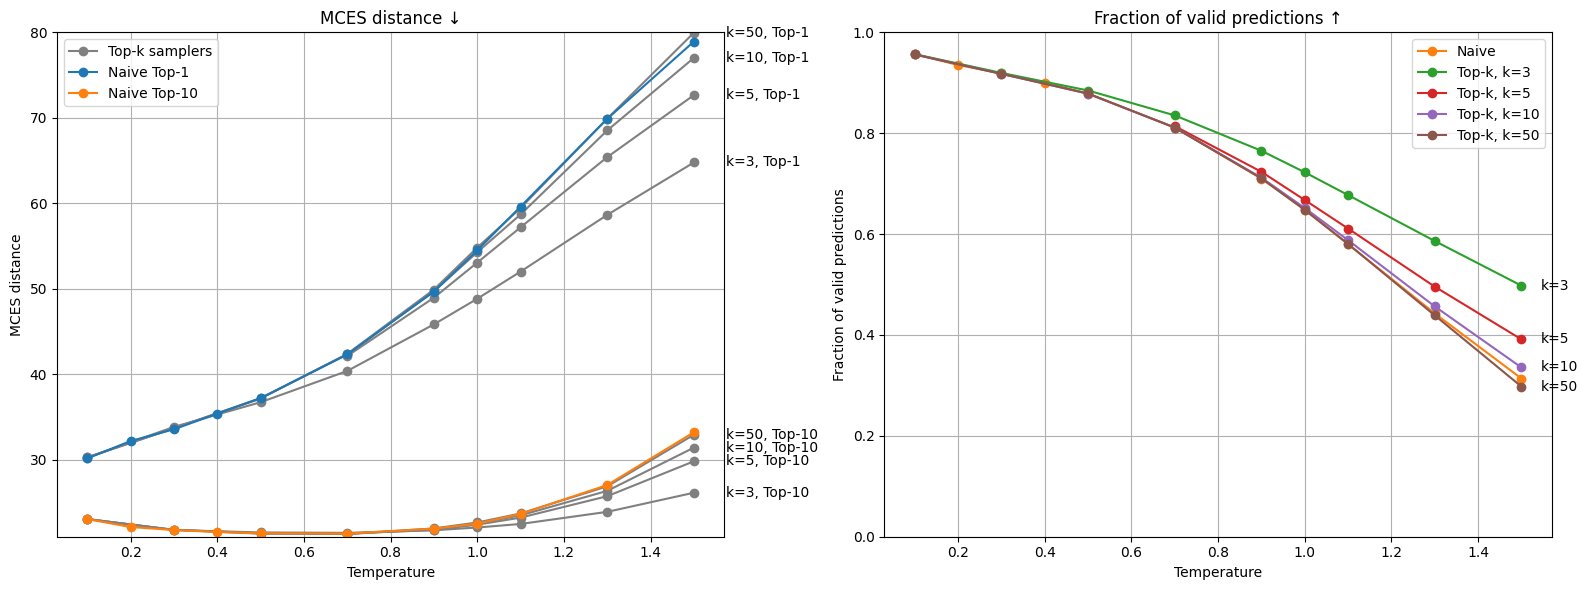
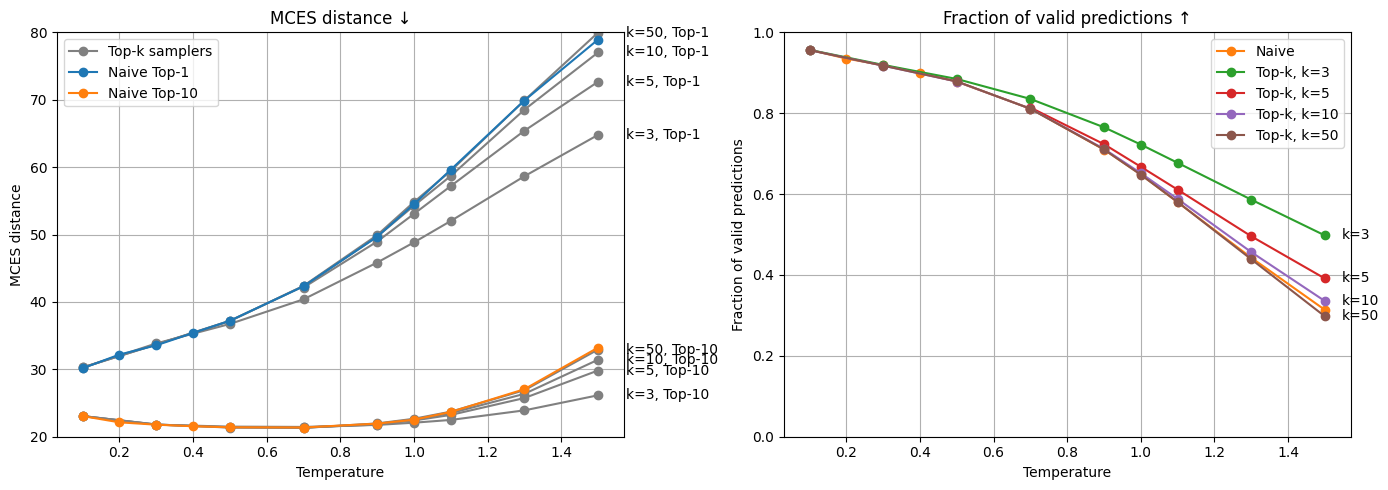
results

diff --git a/paper/chapters/results.tex b/paper/chapters/results.tex
@@ -72,16 +72,51 @@ From figure \ref{fig:naive_and_greedy}, it is clear that the naive sampler perfo
 Increasing the randomness (by increasing the temperature) for the top-1 naive sampler, only worsens the MCES distance.
 As expected, the top-1 naive sampler MCES distance converges to the greedy sampler's MCES distance as the temperature approaches zero, as extremely low temperatures force the model to only predict the most likely token.
 
-The top-10 naive sampler shows to have an optimal temperature around $0.7$, for this SMILES model.
+The top-10 naive sampler benefits greatly from its randomness, by performing better than the greedy sampler according to the MCES distance.
+It shows to have an optimal temperature around $0.7$, for this SMILES model.
 A higher temperature increases the randomness of the sampler too much causing the amount of valid predictions to drop.
 A lower temperature starts to force the predictions towards the greedy sampler.
 This shows that temperature can indeed influence the sampler's performance.
 
 \subsection{Stochastic Samplers}
 
-Variations naive sampler
+The randomness of the naive sampler can be tweaked using samplers such as top-k and top-p (nucleus sampling).
+Because the stochastic samplers only benefit from their randomness when evaluating in a top-10 setting, only these results will be shown on the plots.
+The temperature has shown to influence performance, therefore, a temperature search was conducted for each sampler with different parameters $k$ or $p$, where the optimal temperature (according to the lowest MCES distance) was selected.
+This ensures that only the best results are shown for each the sampler with its parameter.
+For completeness, the top-1, along with the temperature search results can be found in the appendix in section \ref{sec:sampler_full_results}.
+
+\begin{figure}[h]
+    \centering
+    \includegraphics[width=1.0\textwidth]{figures/results/samplers/top-k.png}
+    \caption{Evaluation of the (top-10, temperature optimized) top-k sampler and naive sampler on the validation set.}
+    \label{fig:top-k}
+\end{figure}
+
+Figure \ref{fig:top-k} shows that top-k sampling can slightly improve performance when $k > 5$.
+This shows that when the sampler gets forced with a low $k$ it performs slightly worse. 
+Note that the y-axis is scaled for visibility, the improvement is very small.
+
+\begin{figure}[h]
+    \centering
+    \includegraphics[width=1.0\textwidth]{figures/results/samplers/top-p.png}
+    \caption{Evaluation of the (top-10, temperature optimized) top-p sampler and naive sampler on the validation set.}
+    \label{fig:top-p}
+\end{figure}
+
+While with top-k, limiting the randomization seems to slightly improve performance of the sampler, figure \ref{fig:top-p} shows that this does not hold for the top-p sampler.
+Overall these randomization limiting samplers do not considerably improve the naive sampler.
 
 \subsection{Deterministic Samplers}
+
+TODO
+
+\begin{figure}[h]
+    \centering
+    \includegraphics[width=1.0\textwidth]{figures/results/samplers/beam_search.png}
+    \caption{Evaluation of the beam search sampler compared to the greedy and naive sampler on the validation set.}
+    \label{fig:beam-search}
+\end{figure}
 
 
 \section{\ac{BPE} as pretraining}

diff --git a/paper/chapters/appendix.tex b/paper/chapters/appendix.tex
@@ -1,16 +1,60 @@
 \chapter{Appendix}
 \label{chap:appendix}
 
-A few experiments / benchmarks are not that relevant for the scope of this thesis are mentioned in this section.
+A few experiments / results that are not that relevant for the scope of this thesis are mentioned in this section.
 
 \section{Sampler parallelization}
 \label{sec:sampler_parallelization}
-TODO change graph to naive and naive-parallel
-
+Figure \ref{fig:sampler_parallelization} shows the benchmark results between the naive sampler with and without parallelization.
 The benchmark was performed on a singular NVIDIA Ampere A100 GPU.
 \begin{figure}[h]
     \centering
-    \includegraphics[width=\linewidth]{figures/appendix/sampler_parallel.png}
+    \includegraphics[width=0.6\linewidth]{figures/appendix/sampler_parallel.png}
     \caption{Execution Time Benchmark sampler parallelization}
     \label{fig:sampler_parallelization}
 \end{figure}
+
+The naive sampler shows to be more computationally efficient with parallelization.
+A small difference in execution time can be substantial when this sampler is called thousands of times.
+All further stochastic samplers in this thesis were executed with this parallelization enabled.
+
+\section{Stochastic samplers benchmark full results}
+\label{sec:sampler_full_results}
+
+Figures \ref{fig:top-k_appendix}, \ref{fig:top-k_zoomed_appendix}, \ref{fig:top-p_appendix}, \ref{fig:top-p_zoomed_appendix} show the full results from the top-k and top-p benchmark.
+
+\begin{figure}[h]
+    \centering
+    \includegraphics[width=\linewidth]{figures/appendix/samplers/top-k_vs_naive.png}
+    \caption{Full top-k benchmark with top-1 and temperature search results}
+    \label{fig:top-k_appendix}
+\end{figure}
+
+Top-k with $k=20$ is left out of figure \ref{fig:top-k_appendix} for readability. These results are in line with the others.
+
+\begin{figure}[h]
+    \centering
+    \includegraphics[width=0.6\linewidth]{figures/appendix/samplers/top-k_vs_naive_top-10.png}
+    \caption{Zoomed in top-k top-10 MCES distance}
+    \label{fig:top-k_zoomed_appendix}
+\end{figure}
+
+Figure \ref{fig:top-k_zoomed_appendix} shows the slight improvement of top-k $k\geq 10$ to the naive sampler in the temperature optima.
+
+\begin{figure}[h]
+    \centering
+    \includegraphics[width=\linewidth]{figures/appendix/samplers/top-p_vs_naive.png}
+    \caption{Full top-p benchmark with top-1 and temperature search results}
+    \label{fig:top-p_appendix}
+\end{figure}
+
+The search grid for the top-p benchmark was for some values of $p$ cut short to save resources.
+
+\begin{figure}[h]
+    \centering
+    \includegraphics[width=0.6\linewidth]{figures/appendix/samplers/top-p_vs_naive_top-10.png}
+    \caption{Zoomed in top-p top-10 MCES distance}
+    \label{fig:top-p_zoomed_appendix}
+\end{figure}
+
+Figure \ref{fig:top-p_zoomed_appendix} shows that the top-p sampler results do not exceed the results from the naive sampler in their temperature optima.

diff --git a/paper/chapters/Methods.tex b/paper/chapters/Methods.tex
@@ -61,6 +61,7 @@ An execution time benchmark can be found in section \ref{sec:sampler_paralleliza
 To benchmark performance of the different sampling algorithms described in section \ref{sec:samplingmethods}, an implementation was made for each algorithm.
 Because the VRAM requirement for the parallelization can be very demanding, two versions of each algorithm were implemented. 
 One version uses the parallelization by reducing the number of forward passes (requiring sufficient VRAM on the GPU), the other version repeats the sampling of one batch just like the original MassSpecGym implementation.
+These versions will have the same results and will only differ in execution time.
 
 \subsection{Stochastic samplers}
 
